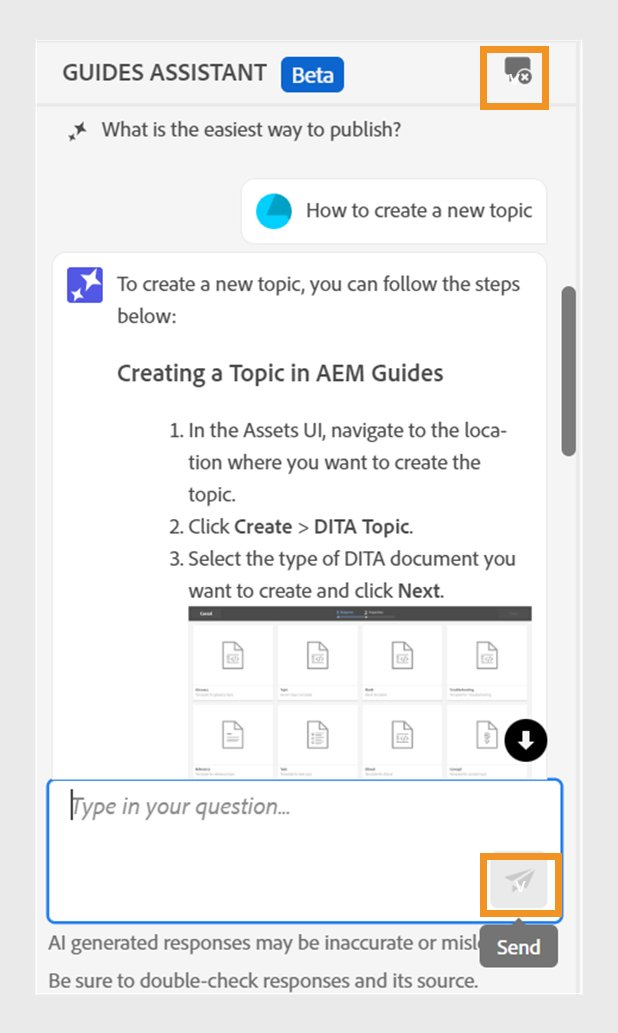
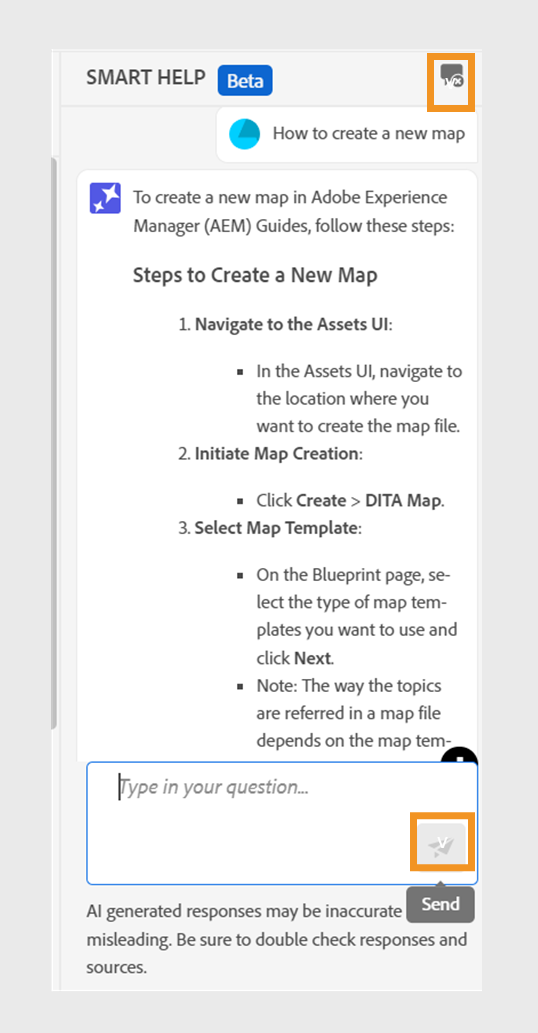
2410 updates- smart help
Updated the feature and images from Guides Assistant to Smart Help

Changed region(s): [[0.0595, 0.031, 0.9219, 0.9603], [0.8922, 0.2788, 0.9517, 0.4337]]

diff --git a/help/product-guide/user-guide/ai-based-guides-assistant.md b/help/product-guide/user-guide/ai-based-guides-assistant.md
@@ -1,34 +1,34 @@
 ---
-title: AI-powered Guides assistant to search content
-description: Learn how to view and utilize AI-powered Guides Assistant in the Web Editor.
+title: AI-powered Smart Help to search content
+description: Learn how to view and utilize AI-powered Smart Help in the Web Editor.
 ---
 
-# AI-powered Guides Assistant to search content
+# AI-powered Smart Help to search content
 
 
 
-While authoring your documents in the Web Editor, you can use the GenAI-based Guides Assistant. This conversational search feature helps you find relevant content from the [Adobe Experience Manager Guides Documentation](https://experienceleague.adobe.com/en/docs/experience-manager-guides/using/overview).
+While authoring your documents in the Web Editor, you can use the GenAI-based Smart Help. This conversational search feature helps you find relevant content from the [Adobe Experience Manager Guides Documentation](https://experienceleague.adobe.com/en/docs/experience-manager-guides/using/overview).
 You can ask your questions and get answers in an informative way. The answer to your query is based on the content from the product documentation. This search is entirely conversational. You can ask questions, and then, based on the response, you can also ask further questions. The response also includes links to source documents, which you can refer to for details. 
 
 For example, you may want to create a topic in Experience Manager Guides for your documentation. You can ask, *How to create a topic?* You get a response and the links for the related articles. Then, if you want to learn how to generate the PDF output for the document, you can ask questions about it. For example, *How to publish a topic to a PDF?* or *How to generate the PDF output for a topic?*  
 
 
 
-When you open the Web Editor, the **Guides Assistant** panel appears on the right.
+When you open the Web Editor, the **Smart Help** panel appears on the right.
 
 
 
 >[!NOTE]
 >
-> Your administrator must configure the **Guides Assistant** feature. For more details, view the [Configure the AI-powered Guides Assistant to search content](../cs-install-guide/conf-guides-assistant.md) section in the Installation and Configuration Guide for Cloud Services. 
+> Your administrator must configure the **Smart Help** feature. For more details, view the [Configure the AI-powered Smart Help to search content](../cs-install-guide/conf-guides-assistant.md) section in the Installation and Configuration Guide for Cloud Services. 
 
-![Guides Assistant panel](images/guides-assistant-panel.png){width="300" align="left"}
+![Smart Help panel](images/guides-assistant-panel.png){width="300" align="left"}
 
-*View the **Guides Assistant** panel.*
+*View the **Smart Help** panel.*
 
 Perform the following steps to use the conversational search to find appropriate content and resolve your queries:
 
-1. Select **Guides Assistant** ![Guides assistant icon](images/guides-assistant-icon.svg) to open the panel.
+1. Select **Smart Help** ![Smart Help icon](images/guides-assistant-icon.svg) to open the panel.
 
 
 
@@ -42,7 +42,7 @@ Perform the following steps to use the conversational search to find appropriate
   
       Depending on your question, you may view the content, applicable images, and links to the articles.
 
-        ![Guides assistant panel response](images/guides-assistant-panel-response.png){width="300" align="left"}
+        ![Smart Help panel response](images/guides-assistant-panel-response.png){width="300" align="left"}
 
 
         *Select the sample question and view the content and images in response.* 

diff --git a/help/product-guide/cs-install-guide/conf-guides-assistant.md b/help/product-guide/cs-install-guide/conf-guides-assistant.md
@@ -1,11 +1,11 @@
 ---
-title: Configure the Guides assistant to search content
-description: Learn how to configure the Guides Assistant to search content
+title: Configure the Smart Help to search content
+description: Learn how to configure the Smart Help to search content
 ---
 
-# Configure the AI-powered Guides Assistant to search content
+# Configure the AI-powered Smart Help to search content
 
-As an administrator, you can configure the Guides Assistant feature for the authors. The Guides Assistant service is secured by Adobe IMS auth-based authentication. Integrate your environment with Adobe’s secure token-based authentication workflows and start using the new Guides Assistant feature. The following configurations help you to add the **AI configuration** tab to a folder profile. Once added, you can use the Guides Assistant feature in the Web Editor.
+As an administrator, you can configure the Smart Help feature for the authors. The Smart Help service is secured by Adobe IMS auth-based authentication. Integrate your environment with Adobe’s secure token-based authentication workflows and start using the new Smart Help feature. The following configurations help you to add the **AI configuration** tab to a folder profile. Once added, you can use the Smart Help feature in the Web Editor.
 
 ## Create IMS configurations in Adobe Developer Console
 
@@ -81,7 +81,7 @@ Once you have added the IMS configuration to the environment, perform the follow
 1. Commit and push your Git changes.
 1. Run the pipeline to apply the changes to the environment.
 
-Once this is done, you should be able to use the **Guides Assistant** feature.
+Once this is done, you should be able to use the **Smart Help** feature.
 
 
 
@@ -100,5 +100,5 @@ Once this is done, you should be able to use the **Guides Assistant** feature.
 ```
 
 
-Once you have configured, the **Guides Assistant** ![Guides Assistant](assets/guides-assistant-icon.svg) icon is displayed in the right panel of the Web Editor. Select the icon to view the **Guides Assistant** panel. 
-For more details, view the [AI-powered Guides Assistant to search content](../user-guide/ai-based-guides-assistant.md) section in the Experience Manager User Guide.
+Once you have configured, the **Smart Help** ![Smart Help](assets/guides-assistant-icon.svg) icon is displayed in the right panel of the Web Editor. Select the icon to view the **Smart Help** panel. 
+For more details, view the [AI-powered Smart Help to search content](../user-guide/ai-based-guides-assistant.md) section in the Experience Manager User Guide.

diff --git a/help/product-guide/cs-install-guide/conf-folder-level.md b/help/product-guide/cs-install-guide/conf-folder-level.md
@@ -440,13 +440,13 @@ Learn more about how to view and add [AI-based Smart Suggestions](../user-guide/
 
 
 
-## Configure AI-powered Guides Assistant in the Web Editor {#conf-ai-guides-assistant}
+## Configure AI-powered Smart Help in the Web Editor {#conf-ai-guides-assistant}
 
 For ![AEM cloud ](assets/aem-cloud-icon.svg) Experience Manager Guides as a Cloud Service.
 
-You can configure the AI-powered **Guides Assistant** to help the authors ask questions and easily find the required content from the [ Experience Manager Guides Documentation](https://experienceleague.adobe.com/en/docs/experience-manager-guides/using/overview).
+You can configure the AI-powered **Smart Help** to help the authors ask questions and easily find the required content from the [ Experience Manager Guides Documentation](https://experienceleague.adobe.com/en/docs/experience-manager-guides/using/overview).
 
-The **XML Editor Configuration** tab allows you to configure the default questions of the **Guides Assistant panel** in the Web Editor.
+The **XML Editor Configuration** tab allows you to configure the default questions of the **Smart Help panel** in the Web Editor.
 
 >[!NOTE]
 >
@@ -461,7 +461,7 @@ Perform the following steps to configure the default questions:
 
     >[!NOTE]
     >
-    >You can configure default questions for the **Guides assistant panel** to the global or a folder-level profile.
+    >You can configure default questions for the **Smart Help panel** to the global or a folder-level profile.
 
 1.  Select the **XML Editor Configuration** tab. 
 
@@ -482,10 +482,10 @@ Perform the following steps to configure the default questions:
 
     >[!NOTE]
     >
-    > The default questions appear in the **Guides assistant** panel after you save the file. 
+    > The default questions appear in the **Smart Help** panel after you save the file. 
 
 
-Learn more about using the [AI-powered Guides assistant](../user-guide/ai-based-guides-assistant.md) to find the required content from the Experience Manager Guides documentation.
+Learn more about using the [AI-powered Smart Help](../user-guide/ai-based-guides-assistant.md) to find the required content from the Experience Manager Guides documentation.
 
 
 ## Configure and customize the XML Web Editor {#id2065G300O5Z}

diff --git a/help/product-guide/release-info/whats-new-2024-10-0.md b/help/product-guide/release-info/whats-new-2024-10-0.md
@@ -1,5 +1,5 @@
 ---
-title: Release Notes | What's New in Adobe Experience Manager Guides 4.4.0 release
+title: Release Notes | What's New in Adobe Experience Manager Guides 2024.10.0release
 description: Learn about the new and enhanced features in the 2024.10.0 release of Adobe Experience Manager Guides
 role: Leader
 ---
@@ -65,13 +65,6 @@ If the same topic is referred to more than once in a file, then you can add a di
 
 
 
-
-
-
-
-
-
-
 ### Option to either choose a flat or nested file hierarchy for HTML5 output
 
 Now, Experience Manager Guides allows you to retain the flat folder hierarchy for the temporary files wherein the entire content is published in HTML5 output format and saved in a single folder.
@@ -102,13 +95,6 @@ You can also access the **Layout** view for read-only DITA maps.
 Learn how to [open locked files in Author and Source modes](../user-guide/web-editor-edit-topics.md#open-locked-files-in-author-and-source-modes).
 
 
-
-
-
-
-
-
-
 ### Grouped conditions for enhanced content organization
 
 Experience Manager Guides now allows you to group conditions and present them in a nested hierarchy, allowing you to add multiple conditions to a single group. By grouping conditions, you can better organize and apply them across your content.
@@ -118,11 +104,7 @@ Experience Manager Guides now allows you to group conditions and present them in
 Learn more about the **Conditions** feature description in the [Left Panel](../user-guide/web-editor-features.md#id2051EA0M0HS) section.
 
 
-## Content lifecycle management enhancements
-
-The content lifecycle management has been enhanced in the following ways:
-
-### Ability to translate content into multiple languages using preconfigured language groups
+## Ability to translate content into multiple languages using preconfigured language groups
 
 Experience Manager Guides now allows you to create language groups and easily translate your content into multiple languages. This feature helps you organize and manage translations according to your organization's needs. 
 

diff --git a/help/product-guide/release-info/upgrade-instructions-2024-10-0.md b/help/product-guide/release-info/upgrade-instructions-2024-10-0.md
@@ -1,7 +1,6 @@
 ---
 title: Release Notes | Upgrade instructions and fixed issues in Adobe Experience Manager Guides, 2024.10.0 release
 description: Learn about the compatibility matrix and how to upgrade to the 2024.10.0 release of Adobe Experience Manager Guides as a Cloud Service.
-exl-id: 6895357a-cfd1-4e6a-aec1-8870db8054fb
 ---
 # Upgrade instructions for the 2024.10.0 release 
 
